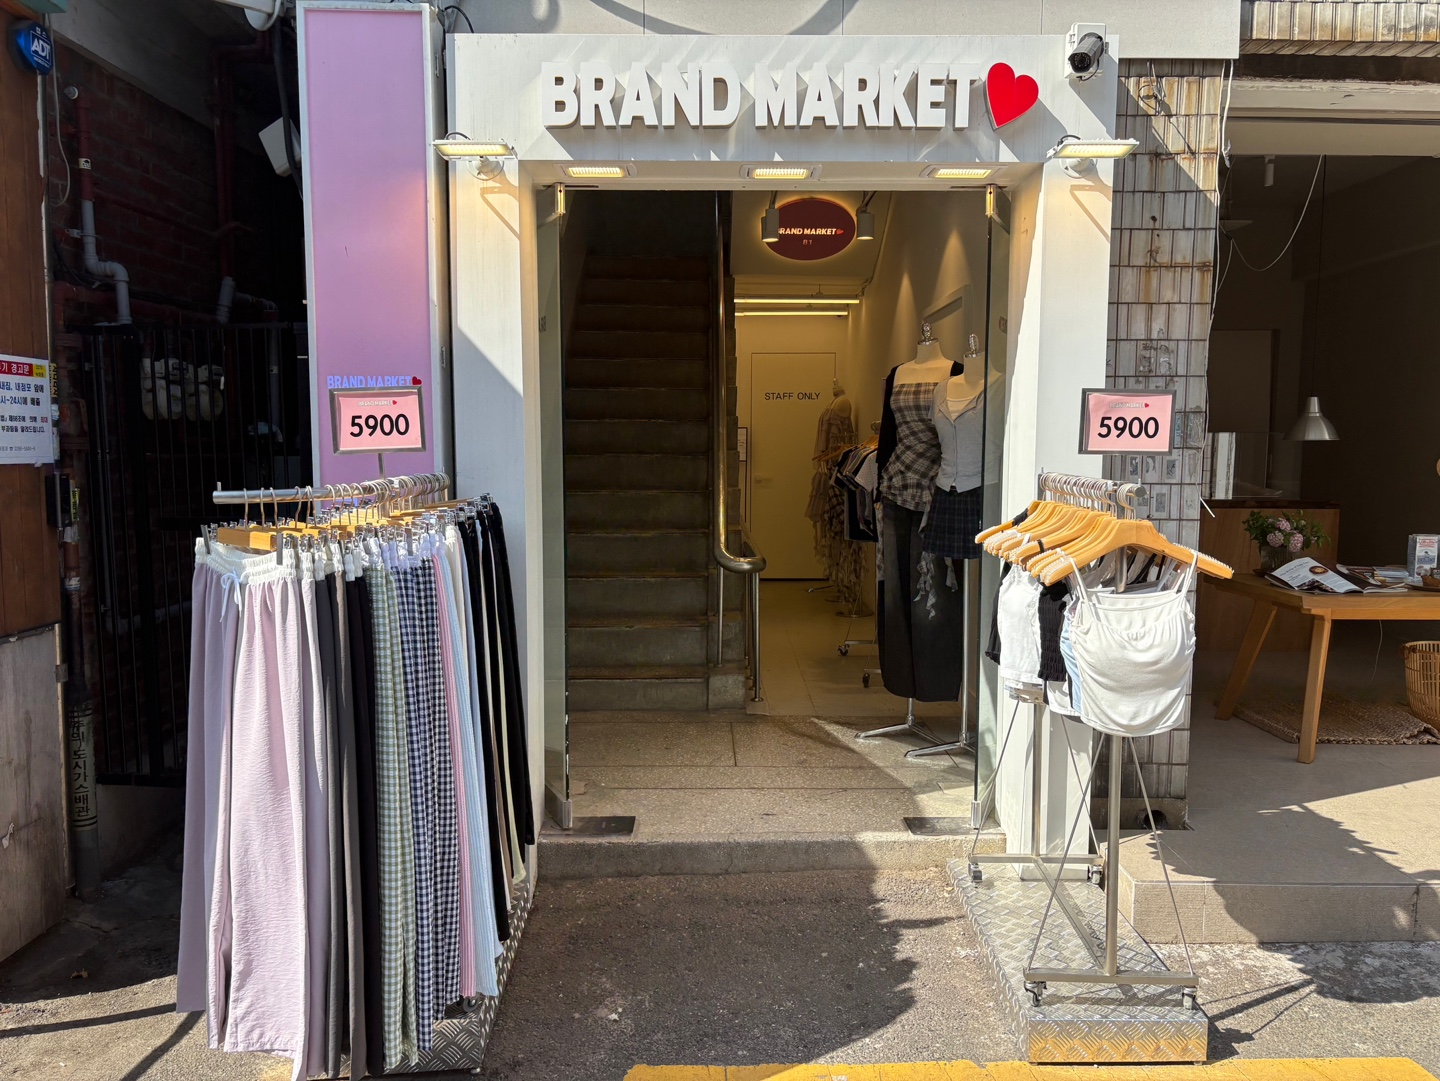
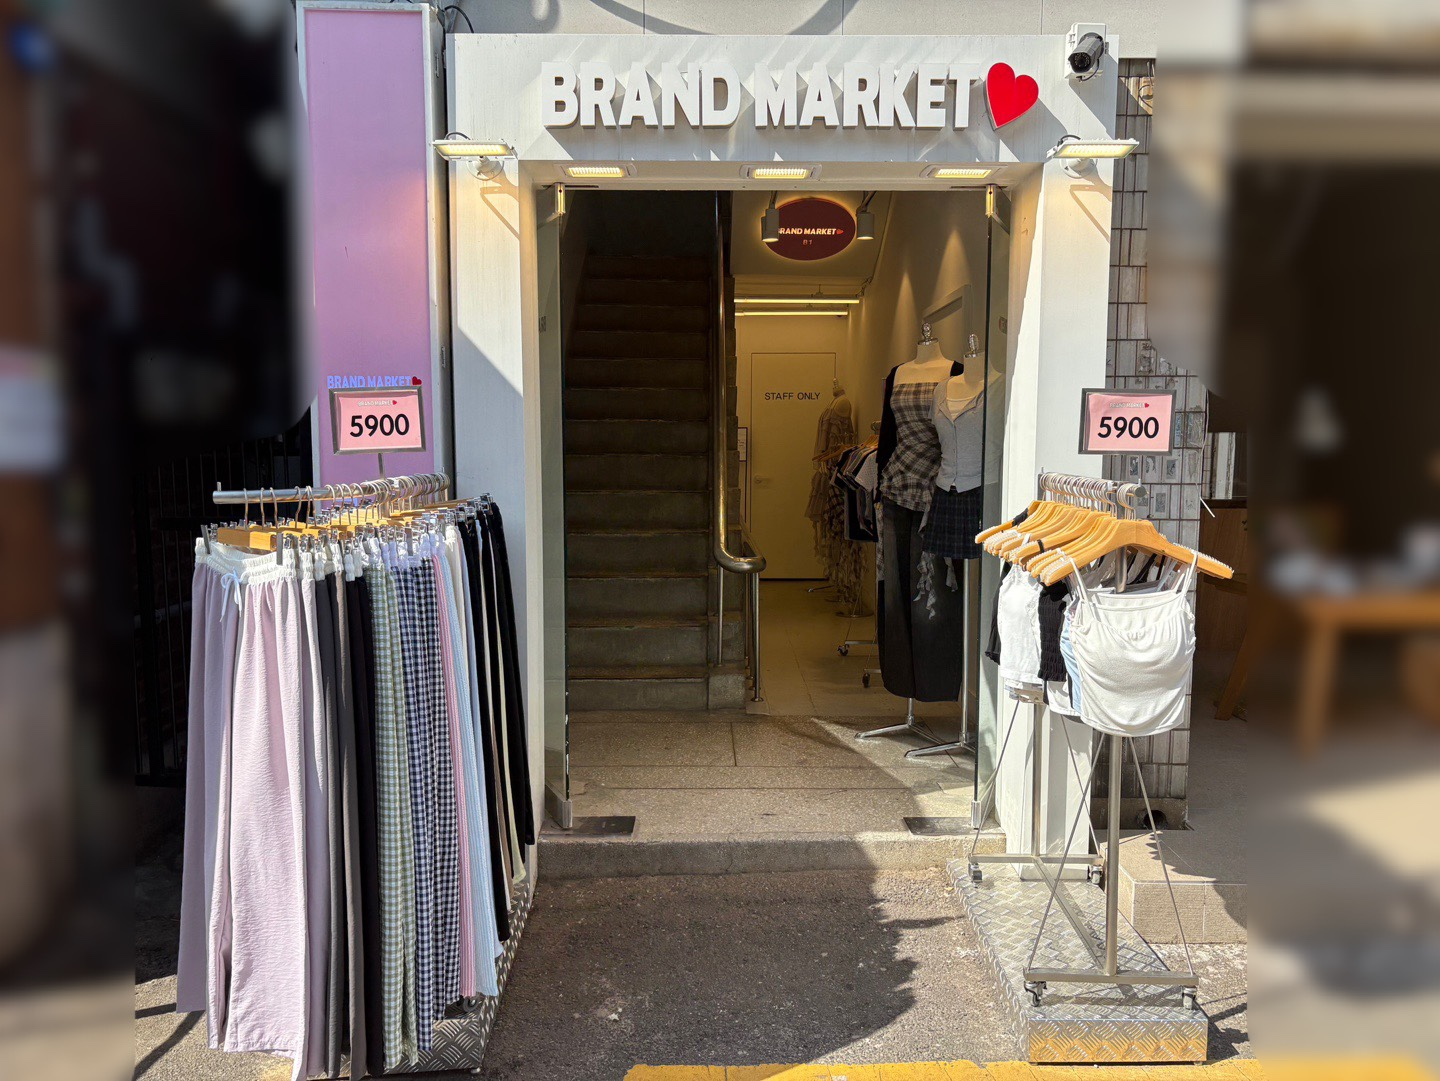
매장 디테일 사진 추가

diff --git a/data/store.ts b/data/store.ts
@@ -46,7 +46,7 @@ export const stores = [
     name: '브랜드마켓 강남점',
     address: '서울특별시 강남구 강남대로 102',
     openTime: '10:00 - 20:00',
-    image: '',
+    image: '/assets/images/강남_매장사진.jpeg',
   },
   {
     id: 4,
@@ -63,7 +63,7 @@ export const detailStoreList = [
     name: '브랜드마켓 홍대점',
     address: '서울 마포구 홍익로6길 27 지하1층 (동교동)',
     openTime: '10:30 - 22:00',
-    image: '',
+    image: '/assets/images/홍대_매장사진.jpeg',
     place: ['2호선 홍대입구역 9번 출구로 나와서 218m 이동 (4분거리)'],
     copy: [
       {
@@ -77,7 +77,7 @@ export const detailStoreList = [
     name: '브랜드마켓 성수점',
     address: '서울 성동구 연무장길 5 (성수동2가)',
     openTime: '10:30 - 22:00',
-    image: '',
+    image: '/assets/images/성수_매장사진.jpeg',
     place: [
       '수인분당선 서울숲역 1번 출구로 나와서 755m 이동 (12분거리)',
       '2호선 뚝섬역 5번 출구로 나와서 533m 이동 (9분거리)',
@@ -95,7 +95,7 @@ export const detailStoreList = [
     name: '브랜드마켓 강남점',
     address: '서울 강남구 강남대로 430 (역삼동)',
     openTime: '10:30 - 22:00',
-    image: '',
+    image: '/assets/images/강남_매장사진.jpeg',
     place: [
       '2호선 강남역 11번 출구로 나와서 417m 이동 (7분거리)',
       '신분당선 신논현역 6번 출구로 나와서 381m 이동 (6분거리)',

diff --git a/app/location/components/store-detail-sheet.tsx b/app/location/components/store-detail-sheet.tsx
@@ -16,6 +16,8 @@ import {
 import { useState } from 'react';
 import { Check, ChevronDown, ChevronUp, Copy } from 'lucide-react';
 import { detailStoreList } from '@/data/store';
+import { Skeleton } from '@/common/components/ui/skeleton';
+import ImagePair from './imagePair';
 
 export default function StoreDetailSheet({
   onClose,
@@ -49,7 +51,16 @@ export default function StoreDetailSheet({
           </SheetHeader>
 
           <div className="px-4 py-6 overflow-y-auto h-[calc(100dvh-80px)]">
-            <div className="aspect-video rounded-lg overflow-hidden bg-muted mb-6"></div>
+            <div className="aspect-video rounded-lg overflow-hidden bg-muted mb-6">
+              {detailStore?.image ? (
+                <ImagePair
+                  image={detailStore?.image || ''}
+                  name={detailStore?.name || ''}
+                />
+              ) : (
+                <Skeleton className="w-full h-70" />
+              )}
+            </div>
 
             <div className="space-y-4">
               <div>

diff --git a/app/location/components/location-card.tsx b/app/location/components/location-card.tsx
@@ -1,4 +1,5 @@
-import Image from 'next/image';
+import { Skeleton } from '@/common/components/ui/skeleton';
+import ImagePair from './imagePair';
 
 export default function LocationCard({
   id,
@@ -21,15 +22,9 @@ export default function LocationCard({
     <div className="flex flex-col gap-2 border-2 border-black/50 mb-2">
       <div key={id}>
         {image ? (
-          <Image
-            src={image}
-            alt={name}
-            className="bg-black w-full h-70 object-contain"
-            width={1000}
-            height={1000}
-          />
+          <ImagePair image={image} name={name} />
         ) : (
-          <div className="bg-gray-200 w-full h-40" />
+          <Skeleton className="w-full h-70" />
         )}
         <div className="p-2 space-y-2">
           <div className="flex flex-col">

diff --git a/app/location/components/imagePair.tsx b/app/location/components/imagePair.tsx
@@ -1,0 +1,22 @@
+import Image from 'next/image';
+
+export default function ImagePair({
+  image,
+  name,
+}: {
+  image: string;
+  name: string;
+}) {
+  return (
+    <div className="bg-black w-full h-70">
+      <Image
+        src={image}
+        alt={name}
+        width={640}
+        height={360}
+        quality={75}
+        className="w-full h-70 object-contain"
+      />
+    </div>
+  );
+}
